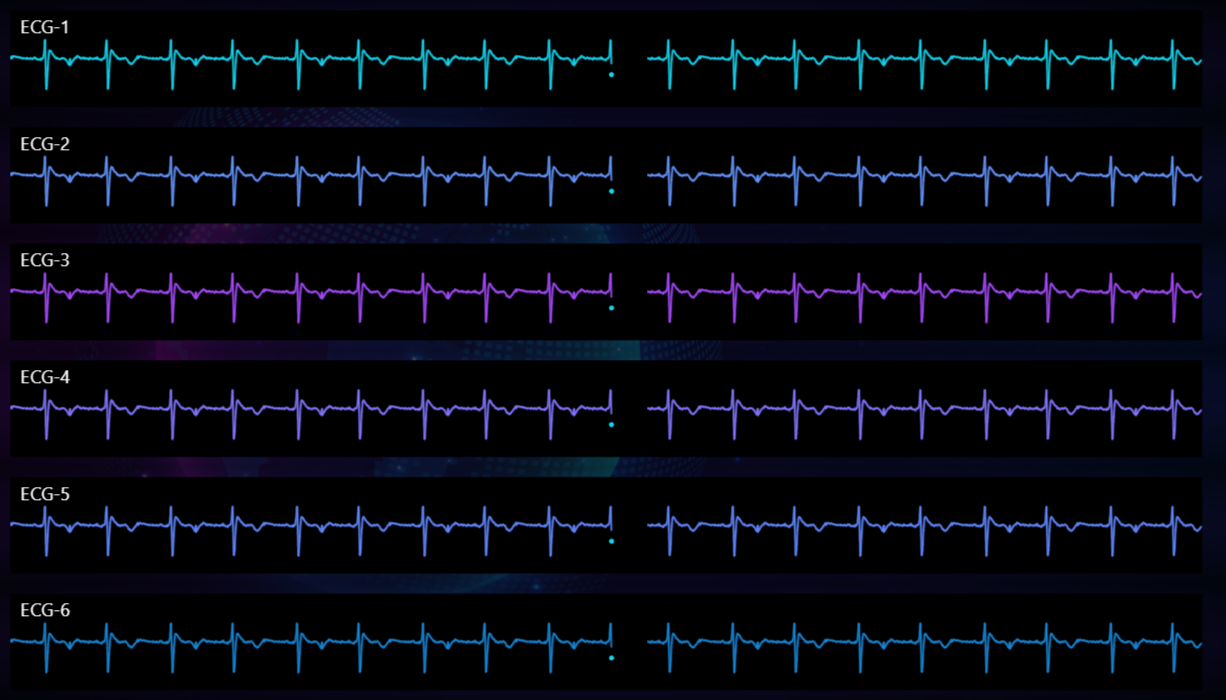
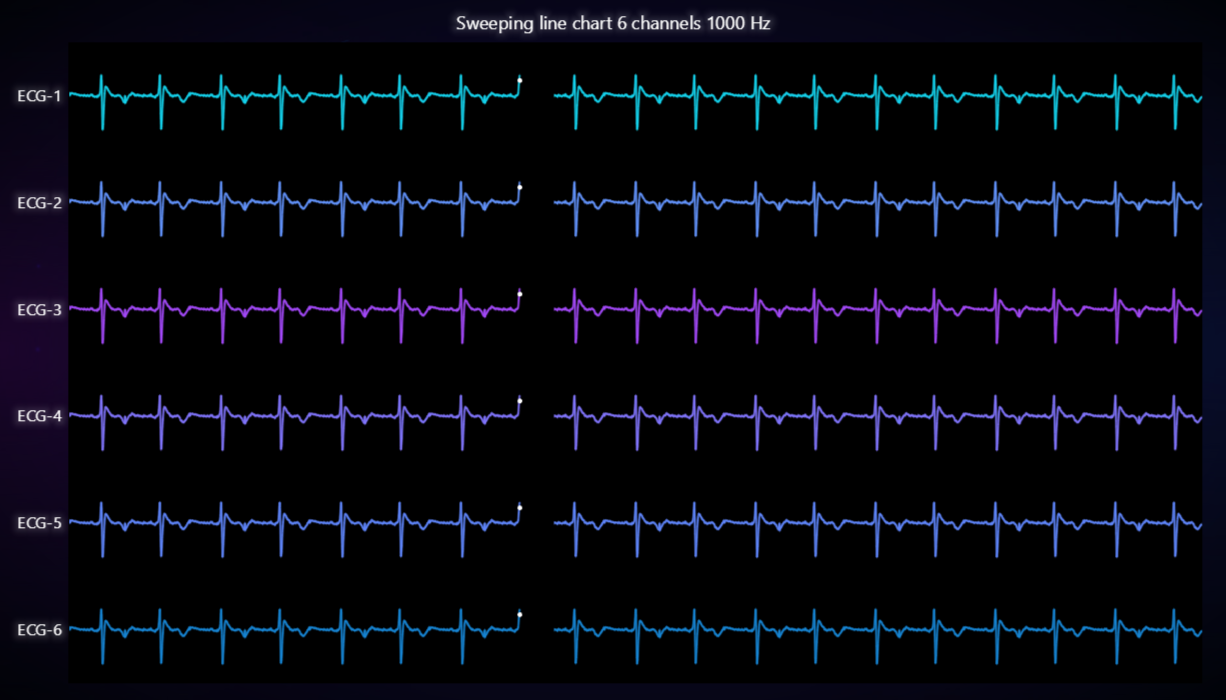
LCJS v7.0.1

Changed region(s): [[0.0, 0.18, 0.9918, 0.96], [0.0, 0.0, 0.9918, 0.18]]

diff --git a/src/index.js b/src/index.js
@@ -33,9 +33,9 @@ fetch(new URL(document.head.baseURI).origin + new URL(document.head.baseURI).pat
         chart
             .setSeriesBackgroundFillStyle(ecgBackgroundFill)
             .setSeriesBackgroundStrokeStyle(emptyLine)
-            .setMouseInteractions(false)
             .setTitle(`Sweeping line chart ${CHANNELS.length} channels 1000 Hz`)
             .setCursorMode(undefined)
+            .setUserInteractions(undefined)
         const axisX = chart
             .getDefaultAxisX()
             .setTickStrategy(AxisTickStrategies.Empty)
@@ -51,7 +51,6 @@ fetch(new URL(document.head.baseURI).origin + new URL(document.head.baseURI).pat
                 .setTickStrategy(AxisTickStrategies.Empty)
                 .setTitle(info.name)
                 .setTitleRotation(0)
-                .setMouseInteractions(false)
 
             // Series for displaying "old" data.
             const seriesRight = chart
@@ -67,12 +66,15 @@ fetch(new URL(document.head.baseURI).origin + new URL(document.head.baseURI).pat
                 .setMaxSampleCount(dataRateHz * xViewMs)
 
             // Rectangle for hiding "old" data under incoming "new" data.
-            const seriesOverlayRight = chart.addRectangleSeries({ yAxis: axisY }).setEffect(false).setCursorEnabled(false)
+            const seriesOverlayRight = chart
+                .addRectangleSeries({ yAxis: axisY })
+                .setPointerEvents(false)
+                .setEffect(false)
+                .setCursorEnabled(false)
             const figureOverlayRight = seriesOverlayRight
                 .add({ x1: 0, y1: 0, x2: 0, y2: 0 })
                 .setFillStyle(ecgBackgroundFill)
                 .setStrokeStyle(emptyLine)
-                .setMouseInteractions(false)
 
             // Series for displaying new data.
             const seriesLeft = chart
@@ -88,22 +90,24 @@ fetch(new URL(document.head.baseURI).origin + new URL(document.head.baseURI).pat
                 .setMaxSampleCount(dataRateHz * xViewMs)
 
             const seriesHighlightLastPoints = chart
-                .addPointSeries({ pointShape: PointShape.Circle, yAxis: axisY })
+                .addPointLineAreaSeries({ dataPattern: null, yAxis: axisY })
                 .setPointFillStyle(new SolidFill({ color: theme.examples.highlightPointColor }))
                 .setPointSize(5)
+                .setStrokeStyle(emptyLine)
                 .setEffect(false)
                 .setCursorEnabled(false)
 
             // Synchronize highlighting of "left" and "right" series.
             let isHighlightChanging = false
             ;[seriesLeft, seriesRight].forEach((series) => {
-                series.onHighlight((value) => {
+                series.addEventListener('highlightchange', (event) => {
+                    const { highlight } = event
                     if (isHighlightChanging) {
                         return
                     }
                     isHighlightChanging = true
-                    seriesLeft.setHighlight(value)
-                    seriesRight.setHighlight(value)
+                    seriesLeft.setHighlight(highlight)
+                    seriesRight.setHighlight(highlight)
                     isHighlightChanging = false
                 })
             })

diff --git a/README.md b/README.md
@@ -78,7 +78,7 @@ Direct developer email support can be purchased through a [Support Plan][4] or b
 © LightningChart Ltd 2009-2022. All rights reserved.
 
 
-[XY cartesian chart]: https://lightningchart.com/js-charts/api-documentation/v6.1.0/classes/ChartXY.html
-[Line series]: https://lightningchart.com/js-charts/api-documentation/v6.1.0/classes/LineSeries.html
-[Axis]: https://lightningchart.com/js-charts/api-documentation/v6.1.0/classes/Axis.html
+[XY cartesian chart]: https://lightningchart.com/js-charts/api-documentation/v7.0.1/classes/ChartXY.html
+[Line series]: https://lightningchart.com/js-charts/api-documentation/v7.0.1/classes/LineSeries.html
+[Axis]: https://lightningchart.com/js-charts/api-documentation/v7.0.1/classes/Axis.html
 
